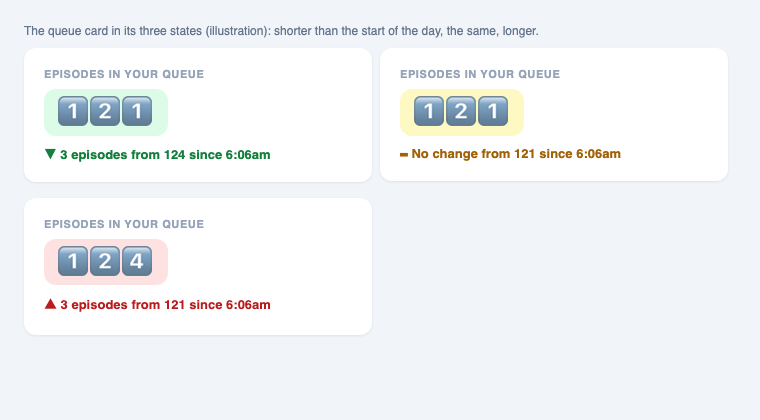
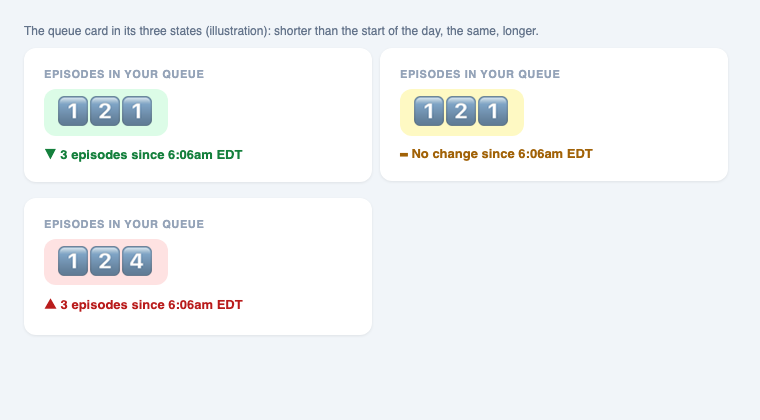
Flow web report: queue line names the time zone

Changed region(s): [[0.6355, 0.3405, 0.8171, 0.4024], [0.1816, 0.3405, 0.3632, 0.4024], [0.1513, 0.7119, 0.3632, 0.7429]]

diff --git a/flow.py b/flow.py
@@ -587,13 +587,12 @@ def queue_card(qs, qe, tz=None):
     tone = queue_tone(qs["queue_count"], qe["queue_count"])
     bg, fg, arrow = QUEUE_TONES[tone]
     delta = qe["queue_count"] - qs["queue_count"]
-    since = f"since {clock(qs, tz)}"
+    since = f"since {clock(qs, tz)} {local_dt(qs, tz).strftime('%Z')}"
     n = abs(delta)
     noun = f"{n} episode" + ("" if n == 1 else "s")
-    start = qs["queue_count"]
-    sub = {"better": f"{arrow} {noun} from {start} {since}",
-           "same": f"{arrow} No change from {start} {since}",
-           "worse": f"{arrow} {noun} from {start} {since}"}[tone]
+    sub = {"better": f"{arrow} {noun} {since}",
+           "same": f"{arrow} No change {since}",
+           "worse": f"{arrow} {noun} {since}"}[tone]
     value_html = (f'<span style="display:inline-block;background:{bg};border-radius:12px;'
                   f'padding:6px 14px;font-size:30px;line-height:1.15;letter-spacing:2px;">'
                   f'{keycaps(qe["queue_count"])}</span>')

diff --git a/tests/test_flow.py b/tests/test_flow.py
@@ -304,11 +304,11 @@ class StoryTests(unittest.TestCase):
             return flow.queue_card(snap("2026-10-16T09:00", queue_count=start),
                                    snap("2026-10-16T18:00", queue_count=end), NY)
         self.assertIn("#dcfce7", card(124, 121))
-        self.assertIn("▼ 3 episodes from 124 since 9:00am", card(124, 121))
+        self.assertIn("▼ 3 episodes since 9:00am EDT", card(124, 121))
         self.assertIn("#fef9c3", card(121, 121))
-        self.assertIn("No change from 121 since 9:00am", card(121, 121))
+        self.assertIn("No change since 9:00am EDT", card(121, 121))
         self.assertIn("#fee2e2", card(121, 124))
-        self.assertIn("▲ 3 episodes from 121 since 9:00am", card(121, 124))
+        self.assertIn("▲ 3 episodes since 9:00am EDT", card(121, 124))
 
     def test_labels_have_names_and_approximate_ones_are_marked(self):
         self.assertEqual(flow.label_name({"label": "dash-end"}), "🏁 Dash end")
